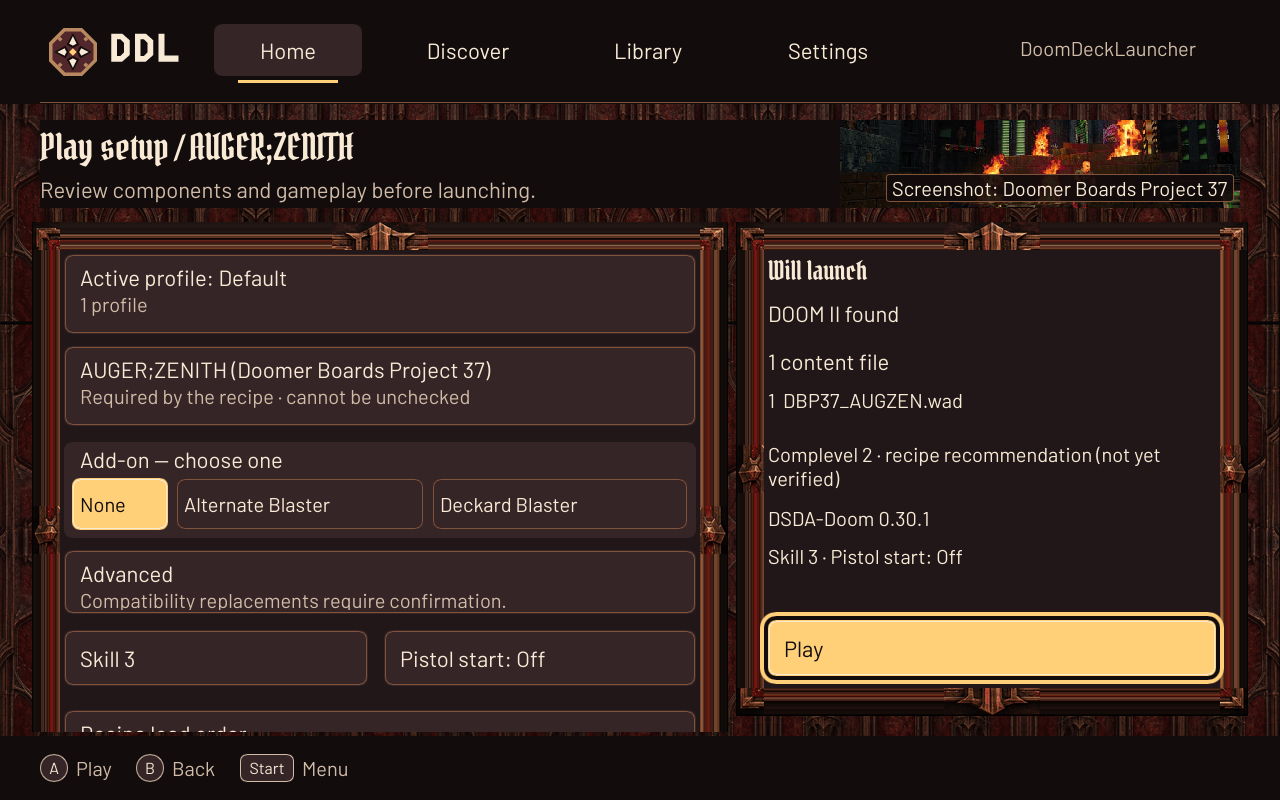
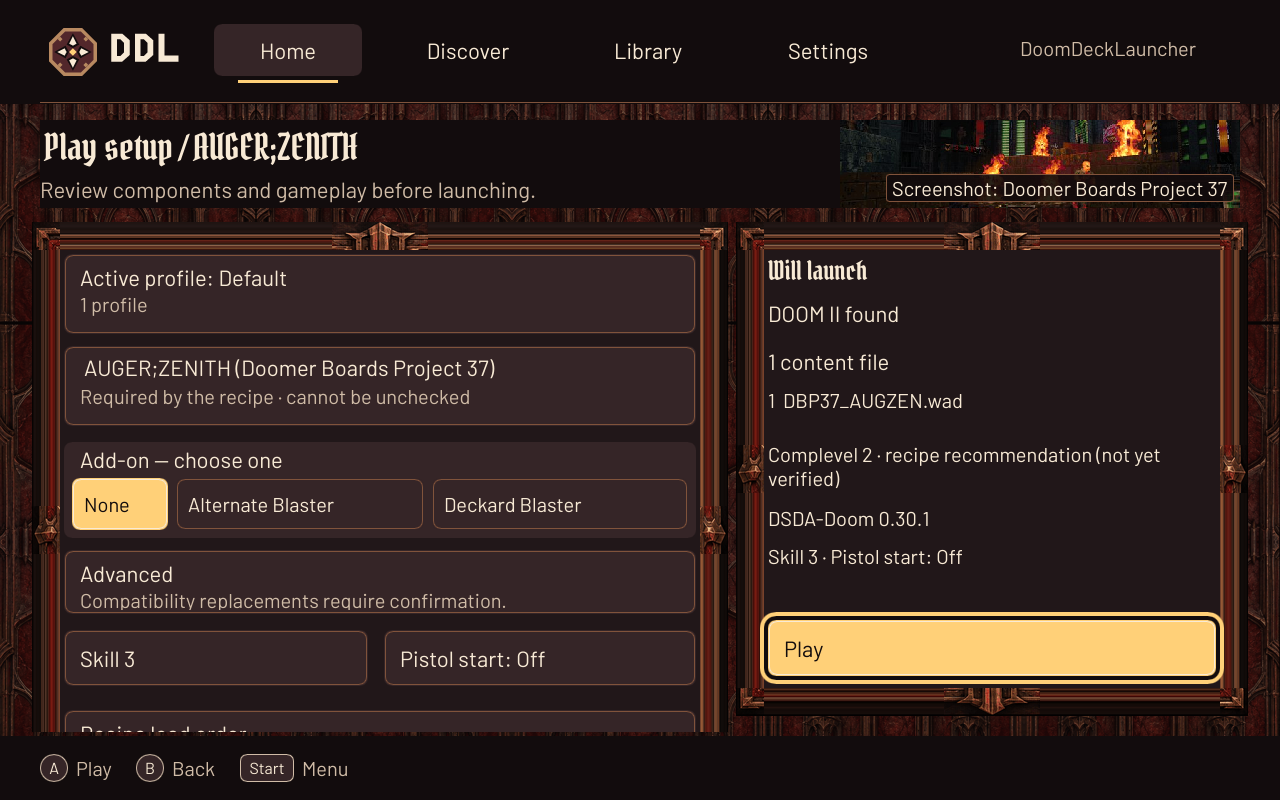
Record long-title verification and refresh README renders

diff --git a/docs/reports/025-long-titles.md b/docs/reports/025-long-titles.md
@@ -1,0 +1,185 @@
+# 025 — Long mapset titles fit their slots
+
+## Result
+
+R1–R3 implemented with the Ember Cathedral fonts, materials, frames, artwork and controller
+navigation retained. All 13 embedded recipes and a synthetic 60-character title are exercised
+at 1280×800 by the off-screen Slint software renderer. No visible window was opened and no
+screen was captured. New dependencies: none.
+
+## Audit (R1)
+
+Every recipe was rendered in Home (hero and Recently played), Discover, Library, Mapset detail,
+Play setup, install progress, the profile picker and uninstall confirmation: 112 before frames
+and 112 after frames including the synthetic recipe, plus the component frames described below. The longest catalog title is
+**Back to Saturn X E2: Tower in the Fountain of Sparks**, 52 characters. The synthetic title is
+`ABCDEFGHIJKLMNOPQRSTUVWXYZ ABCDEFGHIJKLMNOPQRSTUVWXYZ ABCDEF` (60 characters), retaining the
+Alien Vendetta author list to exercise a long credit independently of the title.
+
+Confirmed by headless renders and the bundled-font measurements:
+
+| Slot | Cases before the fix |
+| --- | --- |
+| Home hero title | Back to Saturn X E1 and E2: 93 px preferred wrapped height in a 60 px slot; the second line was cut through its glyphs. Synthetic: 139 px in 60 px. |
+| Home hero author | Alien Vendetta, both Back to Saturn X episodes, Eviternity, Eviternity II, SIGIL II; multiline text was clipped in a 36 px slot. Synthetic inherits Alien Vendetta's author list. |
+| Recently played title | Both Back to Saturn X episodes and the synthetic title require multiple lines in a single-line slot. All 13 recipes also had a 34 px preferred line in a 32 px slot; short-title glyphs mostly appeared intact, but the line box was undersized. |
+| Discover / Library title | Both Back to Saturn X episodes: 67 px in 42 px; synthetic: 101 px in 42 px. |
+| Play setup / install progress context heading | Back to Saturn X E2: 801 / 892 px natural width in 784 px. Synthetic detail / setup / progress: 986 / 1031 / 1122 px in 784 px. |
+| Detail title | Current compact catalog titles fit, but parenthesized qualifiers were silently removed for Alien Vendetta, Ancient Aliens, AUGER;ZENITH, Eviternity and Eviternity II. Synthetic: 103 px in 60 px. |
+| Uninstall title | Catalog titles fit. Synthetic confirmation needs 67 px in the original 64 px title slot. |
+| Card/detail authors | Original character-count truncation could wrap to two lines on cards; no additional clipped catalog glyphs found in the old slots. Cards now use one measured, elided line. |
+| Profile picker / art band | Neither contains a mapset title or author line. The picker shows the active profile name; the band carries the screenshot credit. Both were rendered for every recipe and retain their existing content. |
+
+The raw baseline measurement list is `target/headless/025-before/025-audit.txt`; the supplemental
+context-heading width measurements are `target/headless/025-after/025-fit.txt`. Preferred sizes
+include line spacing, so a line-box shortfall is distinguished above from visibly severed glyphs.
+
+## Fitting (R2)
+
+- Shared Slint `FittedText` measures the actual bundled face at the assigned width, tries
+  wrapping at the original scale, reduces by exactly one scale step if needed, then uses
+  Slint's elision. Title slots cap their rendered height at one or two measured lines.
+- Home hero: 36→26 px, two lines in 68 px. History: 26→22 px, one line in 34 px; short titles
+  keep 26 px. Cards: 26→22 px, two lines in 68 px, followed by one 26 px author slot.
+  Author data is no longer prematurely shortened by character count.
+- Context headings: 36→26 px, one line. Mapset confirmation / profile sheet headings use
+  26→22 px. Other confirmation sheets retain their existing multi-line space.
+- Detail renders the **complete** recipe title, including parenthesized qualifiers, at
+  44→36 px in a 96 px slot with no elision. The author and description move down only enough
+  to accommodate it. The shorter description slot elides its last complete line, avoiding a
+  new clipped line or overlap with tags.
+- A 4 px horizontal glyph inset protects Pirata One's side bearings: the first pixel-bound
+  test caught an initial `A` extending one pixel left of its nominal text origin.
+
+## Regression coverage (R3)
+
+`headless::fixture_screens_navigation_and_focus_render_headlessly` calls
+`production::title_fit_journey` on the existing single headless platform. It uses production
+runtime nodes and sheet composition, asserting the expected number of title/author slots,
+one/two-line limits, space for at least one complete line, one-step scale bounds, title separation from the following row, the exact
+full detail title and its measured preferred height, and actual software-rendered ink bounds.
+The isolated pixel fixture uses the same `FittedText` component as production; it must paint
+nonempty text and cannot paint outside its assigned rectangle. Catalog iteration is dynamic,
+so new recipes join the fit test automatically. Sheet opening uses a render-only seam rather
+than saving profiles or executing uninstall commands.
+
+The obsolete character-count author helper and its unit test were replaced by measured-font
+coverage of every recipe's author line. The fixture encoder uses the existing PNG crate's fast
+lossless deflate backend, keeping adaptive-filter scanlines unchanged; all ten focused
+synthetic PNGs byte-match after the README script's normalization against the previous encoder.
+No new dependency or pixel change was introduced by that test-only optimization.
+
+The first synthetic detail check failed at 88 px; increasing the slot to 96 px made the full
+second line fit at the permitted 36 px step. This is an intrinsic-height assertion, independent
+of the outer clipping guard.
+
+Fast focused reruns (no windows):
+
+```sh
+DDL_TITLE_ONLY=1 DDL_HEADLESS_DIR="$PWD/target/headless/025-after" \
+  cargo test -p ddl fixture_screens_navigation_and_focus_render_headlessly
+# Optional: add DDL_TITLE_RECIPE=synthetic-60 to iterate on one recipe.
+```
+
+`DDL_TITLE_AUDIT=1` records intrinsic measurement failures without requiring fit assertions;
+the baseline frames were generated with the original presentation before applying the fit.
+
+## Visual evidence (A1)
+
+Before/after files share the name `025-<screen>-<recipe-id>.png`, under
+`target/headless/025-before/` and `target/headless/025-after/`. Screens are `home`, `discover`,
+`library`, `detail`, `setup`, `progress`, `profiles`, `uninstall`. Examples for the clipped cases:
+
+- `025-home-back-to-saturn-x-e1.png`, `025-home-back-to-saturn-x-e2.png`: hero, author and history.
+- `025-home-alien-vendetta.png`, `025-home-eviternity.png`, `025-home-eviternity-ii.png`,
+  `025-home-sigil-ii.png`: long author lines.
+- `025-discover-back-to-saturn-x-e1.png`, `025-discover-back-to-saturn-x-e2.png` and the same
+  `025-library-*` names: two-line card titles and single-line authors.
+- `025-setup-back-to-saturn-x-e2.png`, `025-progress-back-to-saturn-x-e2.png`: context headings.
+- `025-detail-auger-zenith.png` and the other formerly abbreviated titles: full qualifiers.
+- `025-<screen>-synthetic-60.png`: the longer fixture in all eight screen/sheet compositions.
+
+I inspected before/after crops for all 13 recipes plus the synthetic title in all eight
+compositions (`025-montage-<screen>.png`, local render artifacts), full frames for the clipped
+Back to Saturn X cases and synthetic detail, and all four regenerated README PNGs.
+The contact sheets are crops of software frames, not desktop captures.
+
+## Approved scope addition — component labels
+
+The coordinator explicitly added independent recipe `Component.label` values to Play setup
+coverage during the task. No recipe labels were changed. All **28** catalog component labels
+are exercised, including hidden advanced replacements and exclusive-choice members; the
+synthetic recipe also puts its 60-character string into its main component label.
+The longest catalog component label is **AUGER;ZENITH (Doomer Boards Project 37)** (39 characters).
+It fits its existing slot. The synthetic label required 53 px of wrapped Barlow text in the
+row's 30 px title area, clipping both lines and approaching the locked-component explanation.
+
+Component rows now opt into measured 22→20 px fitting on one line. Their current label area
+cannot hold two complete body lines, so the final fallback is elision; row heights and the
+separate explanation remain intact. Exclusive-choice labels use the fitter at the minimum
+20 px scale, retaining vertical centering and a single elided line. Visual review caught blank
+exclusive-choice labels during the first extension pass. The fix
+keeps their choice rendering separate from body rows; the regression check now also requires
+visible text pixels in each actual production row/button, alongside the isolated fitter check.
+The shared test checks every component label's measured line and painted bounds and writes
+`025-component-<recipe-id>-<node-id>.png` at each component's scroll position.
+
+Inspected supplemental before/after evidence:
+`target/headless/025-component-before/025-component-synthetic-60-100.png` and
+`target/headless/025-component-after/025-component-synthetic-60-100.png`.
+The original `025-before/025-setup-auger-zenith.png` records the longest shipped label;
+final after renders include `025-component-auger-zenith-100.png`. There are 30 additional
+component frames (28 catalog labels plus the synthetic recipe's two labels).
+
+## Final verification (2026-10-18)
+
+Merged then-current `main` (`14d50c2`, including spec 026 phase A) without conflicts in
+`e905a87`. Phase A was already present through the earlier `1382b8a` merge; this final merge
+only brought coordinator-owned status/journal history. No fitting code needed another change.
+`main` subsequently advanced with spec 024 while the checks ran; that later merge is outside
+this verified tree and can be reconciled by the coordinator during review.
+
+Ran each required final check once, sequentially, on macOS arm64:
+
+```sh
+cargo fmt --all --check
+cargo clippy --workspace --all-targets -- -D warnings
+DDL_HEADLESS_DIR="$PWD/target/headless/025-final" cargo test --workspace
+```
+
+All exited 0. Logs are local artifacts in `target/spec-025-final/{fmt,clippy,tests}.log`.
+Formatting produced no output; clippy's tail was:
+
+```text
+    Finished `dev` profile [unoptimized + debuginfo] target(s) in 6.76s
+```
+
+The workspace run passed **495 tests**, zero failures, including all 13 catalog recipes,
+the synthetic title, and the component-label regression checks. Selected output tails:
+
+```text
+test headless::fixture_screens_navigation_and_focus_render_headlessly ... ok
+test result: ok. 93 passed; 0 failed; 0 ignored; 0 measured; 0 filtered out; finished in 222.27s
+test result: ok. 371 passed; 0 failed; 0 ignored; 0 measured; 0 filtered out; finished in 0.94s
+test result: ok. 16 passed; 0 failed; 0 ignored; 0 measured; 0 filtered out; finished in 0.35s
+test result: ok. 2 passed; 0 failed; 0 ignored; 0 measured; 0 filtered out; finished in 0.00s
+test result: ok. 3 passed; 0 failed; 0 ignored; 0 measured; 0 filtered out; finished in 0.00s
+```
+
+The README screenshots had already been regenerated using the documented
+`python3 scripts/readme-screenshots.py` command in the prior implementation pass. All four
+were inspected again during completion. Applying that script's `optimized_png` normalization
+to the fresh final-run frames byte-matched the existing regenerated files: Home 361,489 bytes,
+Discover 555,298 bytes, Play setup 344,934 bytes, Mapset detail 572,467 bytes. No additional
+regeneration was needed after the documentation-only merge.
+
+Completion review also re-inspected the Back to Saturn X E2 Home before/after frames, its
+Discover after frame, synthetic full detail, detail/setup/uninstall contact sheets, and the
+synthetic component before/after frames. The final run's fresh render evidence and
+`025-fit.txt` are under `target/headless/025-final/`. These are off-screen software renders.
+
+## Open items
+
+A1–A3 are complete. No spec 025 requirements or scope questions remain open. No dependencies
+were added. Linux CI and physical Deck validation were not performed in this macOS worktree;
+this task verifies text fitting at the specified 1280×800 resolution headlessly.

diff --git a/docs/specs/025-long-titles.md b/docs/specs/025-long-titles.md
@@ -24,7 +24,7 @@ never cut mid-glyph or overflowing a frame — while the Ember Cathedral look (D
 
 ## Acceptance criteria
 
-- [ ] **A1** (R1, R2) — before/after headless renders for the clipped cases, inspected; README
+- [x] **A1** (R1, R2) — before/after headless renders for the clipped cases, inspected; README
   screenshots regenerated if they change.
-- [ ] **A2** (R3) — the fit test passes for all 13 recipes and the synthetic title.
-- [ ] **A3** — fmt, clippy `-D warnings`, tests green.
+- [x] **A2** (R3) — the fit test passes for all 13 recipes and the synthetic title.
+- [x] **A3** — fmt, clippy `-D warnings`, tests green.
